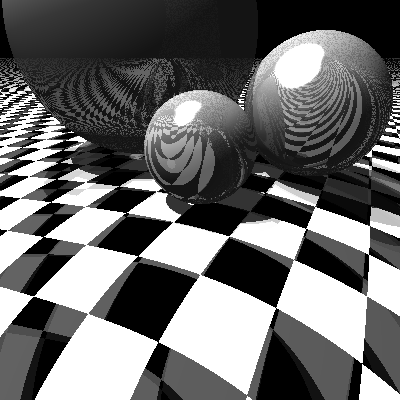
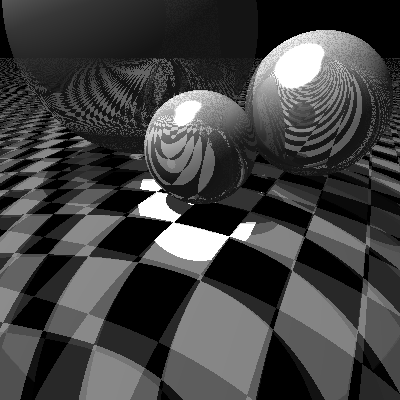
wip on octree

diff --git a/src/octree.rs b/src/octree.rs
@@ -3,6 +3,8 @@ use na::{Vec3};
 use sceneobject::SceneObject;
 use std::rc::Rc;
 use std::fmt;
+use ray::Ray;
+use intersection::Intersection;
 
 pub struct OctreeNode {
     depth: i64,
@@ -23,7 +25,15 @@ impl OctreeNode {
 
         // Rust arrays suck - this defaults them to 'None'
         let mut children: [Option<Box<OctreeNode>>; 8] = Default::default();
-        
+/*
+        let contained: Vec<Rc<SceneObject>> =
+                items
+                    .into_iter()
+                    .cloned()
+                    .filter( |x| {b.contains( &x.bounds() )})
+                    .collect();
+  */     
+
         for i in 0..8 {
             // Does child node have any objects in?
             if depth < max_depth && items.len() > 1 {
@@ -50,6 +60,46 @@ impl OctreeNode {
             children: children, 
             items: items.into_iter().cloned().collect(),
         }
+    }
+
+
+    pub fn is_leaf(&self) -> bool {
+        for i in 0..8 {
+            match self.children[i as usize] {
+                Some(_) => { return false },
+                None => {}
+            }
+        }
+        return true;
+    }
+
+    pub fn is_empty(&self) -> bool {
+        return self.items.len() > 0;
+    }
+
+    pub fn len(&self) -> usize {
+        return self.items.len()
+    }
+
+    
+
+
+    // Iterate through items. Should only do on leaf if multiple items.
+    pub fn items_intersection(&self, r: &Ray, max:f64, min:f64) -> Option<Intersection> {
+        let mut cdist = max;
+        let mut closest = None;
+        for o in &self.items {
+            match o.intersects(r) {
+                Some(x) => {
+                    if x.dist < cdist && x.dist > min {
+                        cdist = x.dist;
+                        closest = Some(x);
+                    }
+                },
+                None => (),
+            }
+        }
+        return closest;
     }
 
 }

diff --git a/src/scenegraph.rs b/src/scenegraph.rs
@@ -37,7 +37,16 @@ impl SceneGraph {
     }
 
     pub fn nearest_intersection(&self, r: &Ray, max:f64, min:f64, exclude: Option<&SceneObject>) -> Option<Intersection> {
-        // Naive approach first
+        match self.root {
+            Some (ref root) => { return root.items_intersection(r, max, min); }
+            None => { return None; }
+                //return self.naive_intersection(r,max,min,exclude); }
+        }
+        
+    }
+
+
+    pub fn naive_intersection(&self, r: &Ray, max:f64, min:f64, exclude: Option<&SceneObject>) -> Option<Intersection> {
         let mut cdist = max;
         let mut closest = None;
         
@@ -69,6 +78,8 @@ impl SceneGraph {
             &self.items.push(x);
         }
         self.partition(8);
+        print!("{}", self);
+
     }
 }
 

diff --git a/src/bbox.rs b/src/bbox.rs
@@ -91,6 +91,17 @@ impl BBox {
 
         return o;
     }
+
+
+    pub fn contains(self, b: &BBox) -> bool {
+        if self.min.x > b.min.x  { return false; }
+        if self.min.y > b.min.y  { return false; }
+        if self.min.z > b.min.z  { return false; }
+        if self.max.x < b.max.x  { return false; }
+        if self.max.y < b.max.y  { return false; }
+        if self.max.z < b.max.z  { return false; }
+        return true;
+    }
 }
 
 

diff --git a/src/scene.rs b/src/scene.rs
@@ -63,7 +63,6 @@ impl Scene {
             },
         );
 
-        //print!("{}", o);
 
         return Scene {
             width: width,
